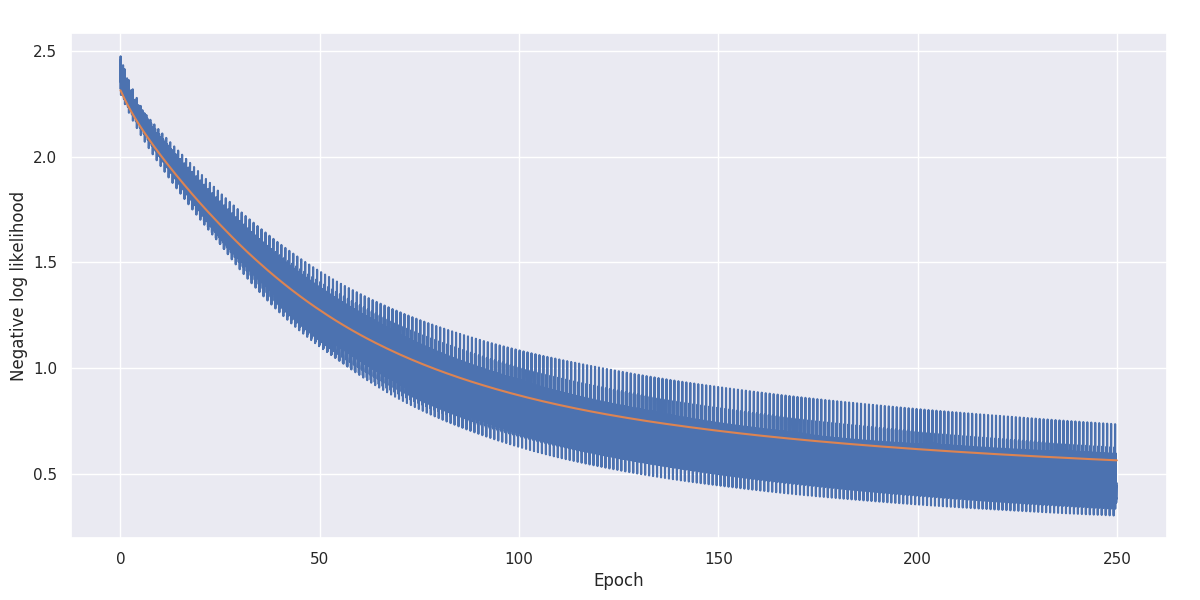
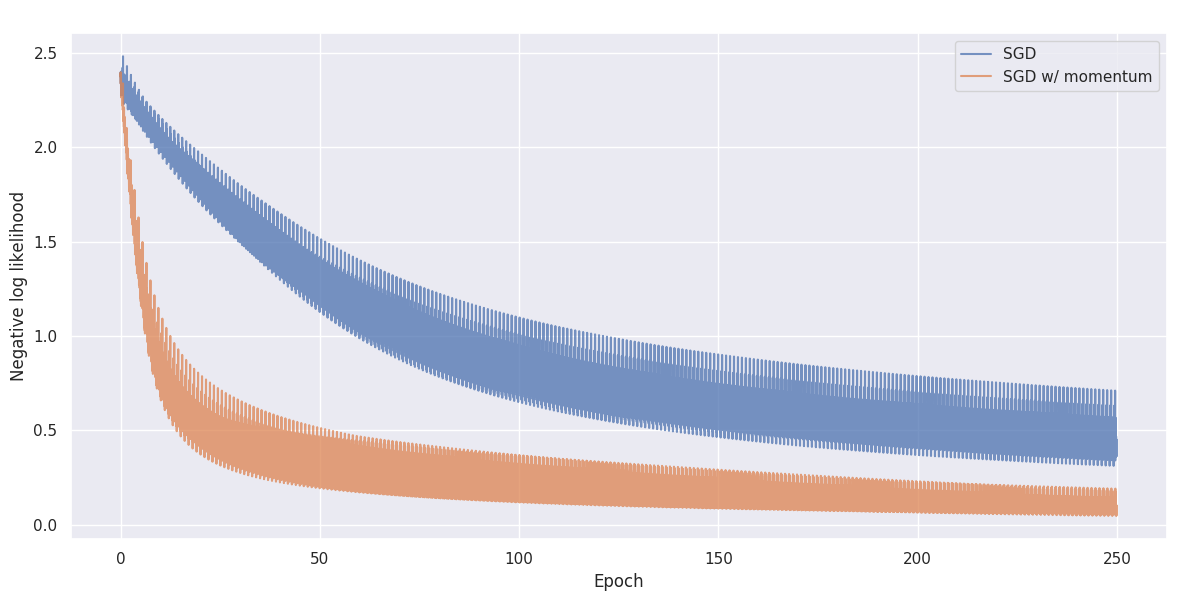
added momentum

diff --git a/main.py b/main.py
@@ -10,6 +10,7 @@ from torch import utils
 from torch.nn import Parameter
 import misc
 import optimizers
+from copy import deepcopy
 
 class MLP(nn.Module):
 	"""
@@ -31,13 +32,10 @@ class MLP(nn.Module):
 		return x
 
 
-def fit(net, data, optimizer):
+def fit(net, data, optimizer, batch_size=64, num_epochs=250):
 	"""
 	Fits parameters of a network `net` using `data` as training data and a given `optimizer`.
 	"""
-	batch_size = 64
-	num_epochs = 250
-
 	x_train, y_train, x_val, y_val = data
 
 	train_generator = utils.data.DataLoader(misc.Dataset(x_train, y_train), batch_size=batch_size)
@@ -68,7 +66,7 @@ def fit(net, data, optimizer):
 		losses += epoch_loss.losses
 		val_losses += epoch_val_loss.avg
 
-	misc.plot_loss(losses, val_losses, num_epochs)
+	return losses
 
 
 if __name__ == '__main__':
@@ -82,9 +80,19 @@ if __name__ == '__main__':
 
 	net = MLP(num_features=784, num_hidden=64, num_outputs=10)
 
-	opt = optimizers.SGD(
-		params=net.parameters(),
+	sgd_net = deepcopy(net)
+	sgd_opt = optimizers.SGD(
+		params=sgd_net.parameters(),
 		lr=1e-3
 	)
+	sgd_loss = fit(sgd_net, data[:4], sgd_opt)
 
-	fit(net, data[:4], opt)
+	sgd_momentum_net = deepcopy(net)
+	sgd_momentum_opt = optimizers.SGD(
+		params=sgd_momentum_net.parameters(),
+		lr=1e-3,
+		mu=0.9
+	)
+	sgd_momentum_loss = fit(sgd_momentum_net, data[:4], sgd_momentum_opt)
+
+	misc.plot_losses([sgd_loss, sgd_momentum_loss], labels=['SGD', 'SGD w/ momentum'], num_epochs=250)

diff --git a/optimizers.py b/optimizers.py
@@ -2,13 +2,36 @@ import torch
 from torch.optim import Optimizer
 
 class SGD(Optimizer):
-    def __init__(self, params, lr):
-        super(SGD, self).__init__(params, defaults={'lr': lr})
+    def __init__(self, params, lr, mu=0):
+        defaults = {'lr': lr, 'mu': mu}
+        super(SGD, self).__init__(params, defaults)
 
     def step(self):
         """
         Performs a single optimization step.
         """
         for group in self.param_groups:
-            for param in group['params']:
-                param.data -= group['lr'] * param.grad.data
+
+            lr = group['lr']
+            mu = group['mu']
+
+            if mu != 0 and 'v' not in group:
+                group['v'] = []
+                
+                for param in group['params']:
+                    group['v'].append(
+                        torch.zeros_like(param)
+                    )
+
+            for idx, param in enumerate(group['params']):
+                if mu != 0:
+                    v = group['v'][idx]
+                    v = mu * v - lr * param.grad.data
+                    param.data += v
+                    group['v'][idx] = v
+
+                    #look_a_head = param.data + mu * v
+                    #v = mu * v - lr * look_a_head.grad.data
+
+                else:
+                    param.data -= lr * param.grad.data

diff --git a/misc.py b/misc.py
@@ -85,6 +85,7 @@ def plot_mnist(X):
 	plt.savefig('mnist_examples.png')
 	plt.clf()
 
+
 def plot_loss(losses, val_losses, num_epochs):
 	sns.set(style='darkgrid')
 	plt.figure(figsize=(12, 6))
@@ -95,3 +96,19 @@ def plot_loss(losses, val_losses, num_epochs):
 	plt.ylabel('Negative log likelihood')
 	plt.savefig('loss.png')
 	plt.clf()
+
+
+def plot_losses(losses, labels, num_epochs):
+	sns.set(style='darkgrid')
+	plt.figure(figsize=(12, 6))
+	
+	for i in range(len(losses)):
+		plt.plot(np.linspace(0, num_epochs, num=len(losses[i])), losses[i].losses, label=labels[i], alpha=0.75)
+
+	plt.tight_layout(pad=2)
+	plt.xlabel('Epoch')
+	plt.ylabel('Negative log likelihood')
+	plt.legend()
+	plt.savefig('loss.png')
+	plt.clf()
+
